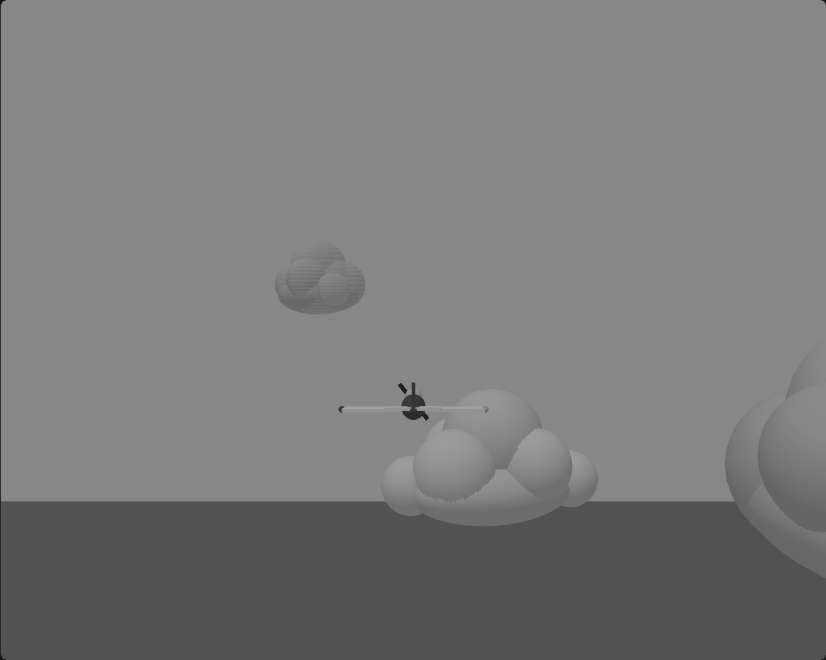
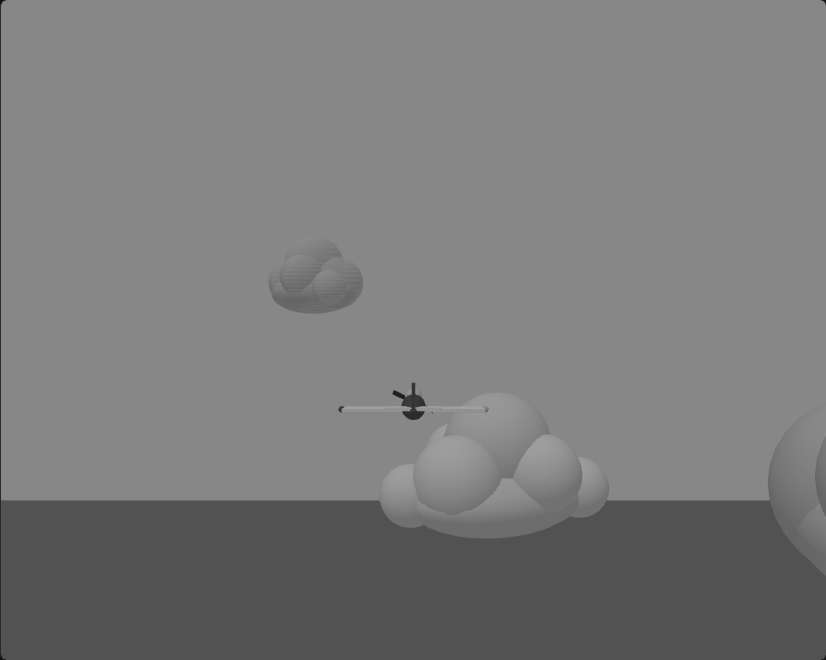
Showroom airplane: procedural islands seeded by position
- Islands: the ocean is split into 1500 x 1500 cells; each cell's island
  (or open water) comes from a random sequence seeded by the cell's own
  coordinates, so returning to a place shows the same island. A sandy
  beach with 1-3 pastel green cone peaks, the tallest snow-capped. 16
  slots cover the 4 x 4 cells around the camera; they fade in from 3000.
  Flying into a peak crashes like hitting the water.
- Islands float 5 above the sea, so nothing shares the ocean's plane.
- The ocean draws first (renderOrder -1), so half-faded islands and
  clouds show the sea through them, not the bare sky colour.
- World.enableDefaultPerspective takes an optional near plane (default
  0.1, unchanged); the airplane scene uses 5, for depth precision far
  away - at 0.1 the islands flickered against the sea.

diff --git a/src/docs/showroom/airplane_flight.ts b/src/docs/showroom/airplane_flight.ts
@@ -24,8 +24,9 @@ import { HEAD_TRACKED_PRESET } from "../../scene/presets.ts";
  *   2. Flight ........ steering, the airplane's motion, the chase camera (once per frame)
  *   3. Airplane ...... an invisible parent box with its parts as children
  *   4. Clouds ........ fixed in the world, repeating every 6000 so the sky never runs out
- *   5. Ocean
- *   6. Canvas, input and draw loop
+ *   5. Islands ....... procedural: each ocean cell's island comes from its own position
+ *   6. Ocean
+ *   7. Canvas, input and draw loop
  */
 export const airplaneFlightExplanation = `
 <p>A small airplane flying through the clouds over the ocean. Move the pointer over the canvas to steer: left / right to turn, down to dive and up to climb. The arrow keys steer too.</p>
@@ -57,8 +58,11 @@ export async function airplaneFlight(
     world.startLoading();
     // Plain perspective, not off-axis: the off-axis frustum is built from the eye-to-screen
     // offset in world axes, so once the camera turns with the airplane it reads that as a
-    // sideways lean and skews the whole view.
-    world.enableDefaultPerspective(config.width, config.height, Math.PI / 4, false);
+    // sideways lean and skews the whole view. Near plane 5, not p5's 0.1: depth precision
+    // falls off with distance / near, and at 0.1 the islands flicker against the sea at a
+    // distance (nothing comes within 5 of the camera but a cloud you fly through, which
+    // the whiteout covers).
+    world.enableDefaultPerspective(config.width, config.height, Math.PI / 4, false, 5);
 
     if (config.paused) {
         world.pause();
@@ -123,6 +127,7 @@ export async function airplaneFlight(
         steer: { x: 0, y: 0 },
         camera: { heading: 0, pitch: 0, position: null as Vector3 | null },
         splashUntil: -1,
+        crash: 'water' as 'water' | 'island',
     };
     const clamp = (value: number, max: number) => Math.max(-max, Math.min(max, value));
     // The unit direction for a heading (camera convention, positive = right) and a p5 pitch
@@ -179,7 +184,10 @@ export async function airplaneFlight(
             y: flight.position.y + nose.y * speed,
             z: flight.position.z + nose.z * speed,
         };
-        if (flight.position.y > -10) {
+        // Into the water, or into an island's peak (section 5).
+        const crash = flight.position.y > -10 ? 'water' : hitsIsland(flight.position) ? 'island' : null;
+        if (crash) {
+            flight.crash = crash;
             flight.position = { ...flight.position, y: startHeight };
             flight.pitch = 0;
             flight.camera.pitch = 0;
@@ -222,7 +230,9 @@ export async function airplaneFlight(
             const now = context.playback.now;
             updateFlight(now);
             announceStatus(now < flight.splashUntil
-                ? 'Splash! You hit the water - flying again from the top.'
+                ? flight.crash === 'island'
+                    ? 'Crash! You hit an island - flying again from the top.'
+                    : 'Splash! You hit the water - flying again from the top.'
                 : 'Move the mouse to steer the airplane.');
             return {
                 success: true,
@@ -506,7 +516,181 @@ export async function airplaneFlight(
         return { cover, color };
     };
 
-    // ── 5. Ocean ────────────────────────────────────────────────────────────────────
+    // ── 5. Islands ──────────────────────────────────────────────────────────────────
+    // Procedural, seeded by position: the ocean is split into 1500 x 1500 cells, and each
+    // cell's island (or none - about 2 in 3 are open water) comes from a random sequence
+    // seeded by the cell's own coordinates. Nothing is stored: come back to a place and
+    // the same island is there.
+    //
+    // An island: a sandy beach (a flat ellipsoid at sea level) with 1-3 cone peaks in a
+    // pastel green, the tallest snow-capped if it's over 450 high. The engine needs a fixed
+    // set of elements, so 16 island slots cover the 4 x 4 cells around the camera (6000
+    // across, ~3000 each way): each slot shows the one cell in that window that falls to it,
+    // and hands over to a new cell only at the window's edge, where islands have faded out.
+    // They fade in from 3000 like the clouds, and stay solid up close - they're ground.
+    const islandCell = 1500;
+    const islandSlots = 4;
+    // mulberry32, seeded by a cell's coordinates: the same cell always gives the same numbers.
+    const cellRandom = (cellX: number, cellZ: number) => {
+        let seed = (Math.imul(cellX, 73856093) ^ Math.imul(cellZ, 19349663) ^ 0x9e3779b9) >>> 0;
+        return () => {
+            seed = (seed + 0x6d2b79f5) >>> 0;
+            let t = seed;
+            t = Math.imul(t ^ (t >>> 15), t | 1);
+            t ^= t + Math.imul(t ^ (t >>> 7), t | 61);
+            return ((t ^ (t >>> 14)) >>> 0) / 4294967296;
+        };
+    };
+    const sandColor = { red: 244, green: 218, blue: 176 } as ColorRGBA;
+    const snowColor = { red: 255, green: 240, blue: 245 } as ColorRGBA;
+    const grassTints = [
+        { red: 120, green: 196, blue: 150 }, // mint
+        { red: 150, green: 200, blue: 120 }, // leaf
+        { red: 110, green: 180, blue: 170 }, // teal
+        { red: 170, green: 190, blue: 140 }, // sage
+    ] as ColorRGBA[];
+    type Peak = { x: number; z: number; radius: number; height: number };
+    type Island = { x: number; z: number; beachX: number; beachZ: number; peaks: Peak[]; grass: ColorRGBA; snowPeak: Peak | null };
+    // Islands already worked out this session - only a speed-up: islandAt gives the same
+    // answer either way.
+    const islandCache = new Map<string, Island | null>();
+    const islandAt = (cellX: number, cellZ: number): Island | null => {
+        const key = `${cellX},${cellZ}`;
+        if (islandCache.has(key)) return islandCache.get(key)!;
+        const random = cellRandom(cellX, cellZ);
+        let island: Island | null = null;
+        if (random() < 0.35) {
+            const size = 250 + random() * 350;
+            const x = (cellX + 0.25 + random() * 0.5) * islandCell;
+            const z = (cellZ + 0.25 + random() * 0.5) * islandCell;
+            const peaks = Array.from({ length: 1 + Math.floor(random() * 3) }, () => ({
+                x: x + (random() - 0.5) * size * 0.8,
+                z: z + (random() - 0.5) * size * 0.8,
+                radius: size * (0.3 + random() * 0.3),
+                height: size * (0.5 + random() * 1.1),
+            }));
+            const tallest = peaks.reduce((a, b) => b.height > a.height ? b : a);
+            island = {
+                x,
+                z,
+                beachX: size,
+                beachZ: size * (0.6 + random() * 0.4),
+                peaks,
+                grass: grassTints[Math.floor(random() * grassTints.length)],
+                snowPeak: tallest.height > 450 ? tallest : null,
+            };
+        }
+        if (islandCache.size > 500) islandCache.clear();
+        islandCache.set(key, island);
+        return island;
+    };
+    // The cell a slot shows along one axis: the one cell, among those 4 apart that fall to
+    // this slot, whose center is within 2 cells of the camera.
+    const slotCell = (slot: number, cameraCoordinate: number) =>
+        slot + islandSlots * Math.round((cameraCoordinate / islandCell - 0.5 - slot) / islandSlots);
+    // Inside a peak (section 2's crash check): below its height, and closer to its axis than
+    // the cone's radius at that height. Checks the airplane's cell and its 8 neighbours.
+    const hitsIsland = (position: Vector3) => {
+        const above = -position.y;
+        const cellX = Math.floor(position.x / islandCell);
+        const cellZ = Math.floor(position.z / islandCell);
+        for (let dx = -1; dx <= 1; dx++) {
+            for (let dz = -1; dz <= 1; dz++) {
+                for (const peak of islandAt(cellX + dx, cellZ + dz)?.peaks ?? []) {
+                    if (above >= peak.height) continue;
+                    const reach = peak.radius * (1 - above / peak.height);
+                    if (Math.hypot(position.x - peak.x, position.z - peak.z) < reach) return true;
+                }
+            }
+        }
+        return false;
+    };
+    // Far below the far plane: where a slot's unused parts (or a cell with no island) go.
+    const hidden = 100000;
+    const hazedByDistance = (color: ColorRGBA, distance: number) =>
+        mix(color, skyColor, Math.min(1, distance / 3000) ** 2);
+
+    for (let slotX = 0; slotX < islandSlots; slotX++) {
+        for (let slotZ = 0; slotZ < islandSlots; slotZ++) {
+            const id = `island-${slotX}-${slotZ}`;
+            const island = () => {
+                const camera = cameraPosition();
+                return islandAt(slotCell(slotX, camera.x), slotCell(slotZ, camera.z));
+            };
+            const distanceToCamera = () => {
+                const shown = island();
+                if (!shown) return Infinity;
+                const camera = cameraPosition();
+                return Math.hypot(shown.x - camera.x, camera.y, shown.z - camera.z);
+            };
+            const alpha = () => Math.max(0, Math.min(1, (3000 - distanceToCamera()) / 1000)) as Alpha;
+            world.addBox({
+                id,
+                type: ELEMENT_TYPES.BOX,
+                width: 1,
+                position: () => {
+                    const shown = island();
+                    return shown ? { x: shown.x, y: 0, z: shown.z } : { x: 0, y: hidden, z: 0 };
+                },
+            });
+            world.addElliptical({
+                id: `${id}-beach`,
+                type: ELEMENT_TYPES.ELLIPTICAL,
+                parentId: id,
+                rx: () => island()?.beachX ?? 1,
+                ry: 30,
+                rz: () => island()?.beachZ ?? 1,
+                // Its bottom 5 above the sea (y -35 + 30), like the peaks' bases (lift below).
+                position: { x: 0, y: -35, z: 0 },
+                alpha,
+                fillColor: () => hazedByDistance(sandColor, distanceToCamera()),
+            });
+            // Up to 3 peaks; a slot whose island has fewer hides the rest. Positions are
+            // relative to the island's center (the parent). The whole island floats `lift` above
+            // the sea - beach bottom and cone bases included - so nothing touches the ocean's
+            // plane, where they'd flicker against it.
+            const lift = 5;
+            for (let peakIndex = 0; peakIndex < 3; peakIndex++) {
+                const peak = () => island()?.peaks[peakIndex];
+                world.addCone({
+                    id: `${id}-peak-${peakIndex}`,
+                    type: ELEMENT_TYPES.CONE,
+                    parentId: id,
+                    radius: () => peak()?.radius ?? 1,
+                    height: () => peak()?.height ?? 1,
+                    position: () => {
+                        const shown = island();
+                        const at = peak();
+                        return shown && at
+                            ? { x: at.x - shown.x, y: -lift - at.height / 2, z: at.z - shown.z }
+                            : { x: 0, y: hidden, z: 0 };
+                    },
+                    alpha,
+                    fillColor: () => hazedByDistance(island()?.grass ?? grassTints[0], distanceToCamera()),
+                });
+            }
+            // Snow on the tallest peak: the top 37% as a cone a touch wider, so it covers
+            // the peak's tip instead of sharing its surface.
+            world.addCone({
+                id: `${id}-snow`,
+                type: ELEMENT_TYPES.CONE,
+                parentId: id,
+                radius: () => (island()?.snowPeak?.radius ?? 1) * 0.39,
+                height: () => (island()?.snowPeak?.height ?? 1) * 0.37,
+                position: () => {
+                    const shown = island();
+                    const at = shown?.snowPeak;
+                    return shown && at
+                        ? { x: at.x - shown.x, y: -5 - at.height * 1.005 + at.height * 0.185, z: at.z - shown.z }
+                        : { x: 0, y: hidden, z: 0 };
+                },
+                alpha,
+                fillColor: () => hazedByDistance(snowColor, distanceToCamera()),
+            });
+        }
+    }
+
+    // ── 6. Ocean ────────────────────────────────────────────────────────────────────
     // At sea level (y 0), kept centered under the airplane so it never ends - flat and one
     // colour, so sliding it along is invisible. 40000 across, so its far edge sits just
     // under the horizon.
@@ -516,10 +700,13 @@ export async function airplaneFlight(
         width: 40000,
         depth: 40000,
         position: () => ({ x: flight.position.x, y: 0, z: flight.position.z }),
+        // Drawn first, before everything else (renderOrder 0 by default): a half-faded island
+        // or cloud drawn before it would hide it, showing the bare sky colour through itself.
+        renderOrder: -1,
         fillColor: { red: 70, green: 130, blue: 190 } as ColorRGBA,
     });
 
-    // ── 6. Canvas, input and draw loop ──────────────────────────────────────────────
+    // ── 7. Canvas, input and draw loop ──────────────────────────────────────────────
 
     let gp: P5GraphicProcessor;
 

diff --git a/src/scene/world.ts b/src/scene/world.ts
@@ -344,12 +344,16 @@ export class World<
      * @param height - Canvas height (optional, uses WindowConfig from settings if not provided)
      * @param fov - Field of view in radians (default: PI/3 = 60 degrees)
      * @param useOffAxis - If true, uses off-axis projection based on eye position (for VR head tracking)
+     * @param near - Near clipping plane (default: 0.1, p5's). Depth precision falls off with
+     *   distance / near, so a scene with surfaces meeting at shallow angles far away (e.g.
+     *   land meeting the sea) needs a larger near plane, or they flicker against each other.
      */
     public enableDefaultPerspective(
         width?: number, 
         height?: number, 
         fov: number = Math.PI / 3,
-        useOffAxis: boolean = false
+        useOffAxis: boolean = false,
+        near: number = 0.1
     ): void {
         if (width !== undefined && height !== undefined) {
             this.stage.updateWindowConfig(WindowConfig.create({ width, height }));
@@ -357,7 +361,7 @@ export class World<
         
         // Use createPerspectiveMatrix which matches p5's default perspective()
         // FOV defaults to 60 degrees (PI/3), matching p5's default
-        // Near = 0.1, Far = 5000, matching p5's WEBGL defaults
+        // Near = 0.1 (unless given), Far = 5000, matching p5's WEBGL defaults
         this.projectionMatrixCalculator = (eye, screen, window) => {
             const aspect = window.width / window.height;
             
@@ -367,7 +371,7 @@ export class World<
                     screen.globalPosition,
                     fov,
                     aspect,
-                    0.1,
+                    near,
                     5000
                 );
             }
@@ -375,7 +379,7 @@ export class World<
             return createPerspectiveMatrix(
                 fov,
                 aspect,
-                0.1,     // near
+                near,
                 5000      // far
             );
         };
